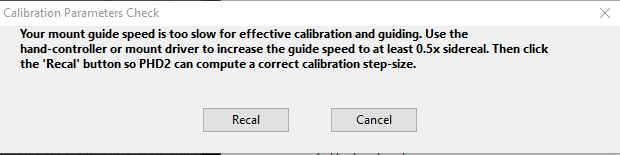
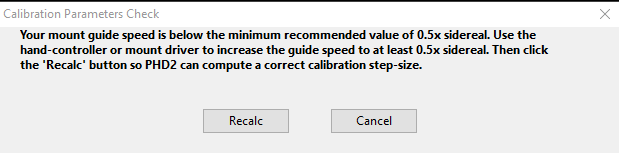
CA change 'Recal' label to 'Recalc'

diff --git a/calibration_assistant.cpp b/calibration_assistant.cpp
@@ -319,11 +319,11 @@ void CalibrationAssistant::PerformSanityChecks(void)
         if (sidRate <= 0.2)
             msg = _("Your mount guide speed is too slow for effective calibration and guiding."
                 " Use the hand-controller or mount driver to increase the guide speed to at least 0.5x sidereal."
-                " Then click the 'Recal' button so PHD2 can compute a correct calibration step-size.");
+                " Then click the 'Recalc' button so PHD2 can compute a correct calibration step-size.");
         else
             msg = _("Your mount guide speed is below the minimum recommended value of 0.5x sidereal."
             " Use the hand-controller or mount driver to increase the guide speed to at least 0.5x sidereal."
-            " Then click the 'Recal' button so PHD2 can compute a correct calibration step-size.");
+            " Then click the 'Recalc' button so PHD2 can compute a correct calibration step-size.");
     }
     else
     {
@@ -335,7 +335,7 @@ void CalibrationAssistant::PerformSanityChecks(void)
         if (fabs(1.0 - (double)currStepSize / (double)recStepSize) > 0.3)           // Within 30% is good enough
         {
             msg = _("Your current calibration parameters can be adjusted for more accurate results."
-                " Click the 'Recal' button to restore them to the default values.");
+                " Click the 'Recalc' button to restore them to the default values.");
         }
     }
     if (!msg.empty())
@@ -1127,7 +1127,7 @@ CalAssistSanityDialog::CalAssistSanityDialog(CalibrationAssistant* Parent, const
     MakeBold(pMessage);
 
     wxBoxSizer* btnSizer = new wxBoxSizer(wxHORIZONTAL);
-    wxButton* pRecalBtn = new wxButton(this, wxID_ANY, _("Recal"));
+    wxButton* pRecalBtn = new wxButton(this, wxID_ANY, _("Recalc"));
     pRecalBtn->Bind(wxEVT_COMMAND_BUTTON_CLICKED, &CalAssistSanityDialog::OnRecal, this);
     wxButton* cancelBtn = new wxButton(this, wxID_ANY, _("Cancel"));
     cancelBtn->Bind(wxEVT_COMMAND_BUTTON_CLICKED, &CalAssistSanityDialog::OnCancel, this);
